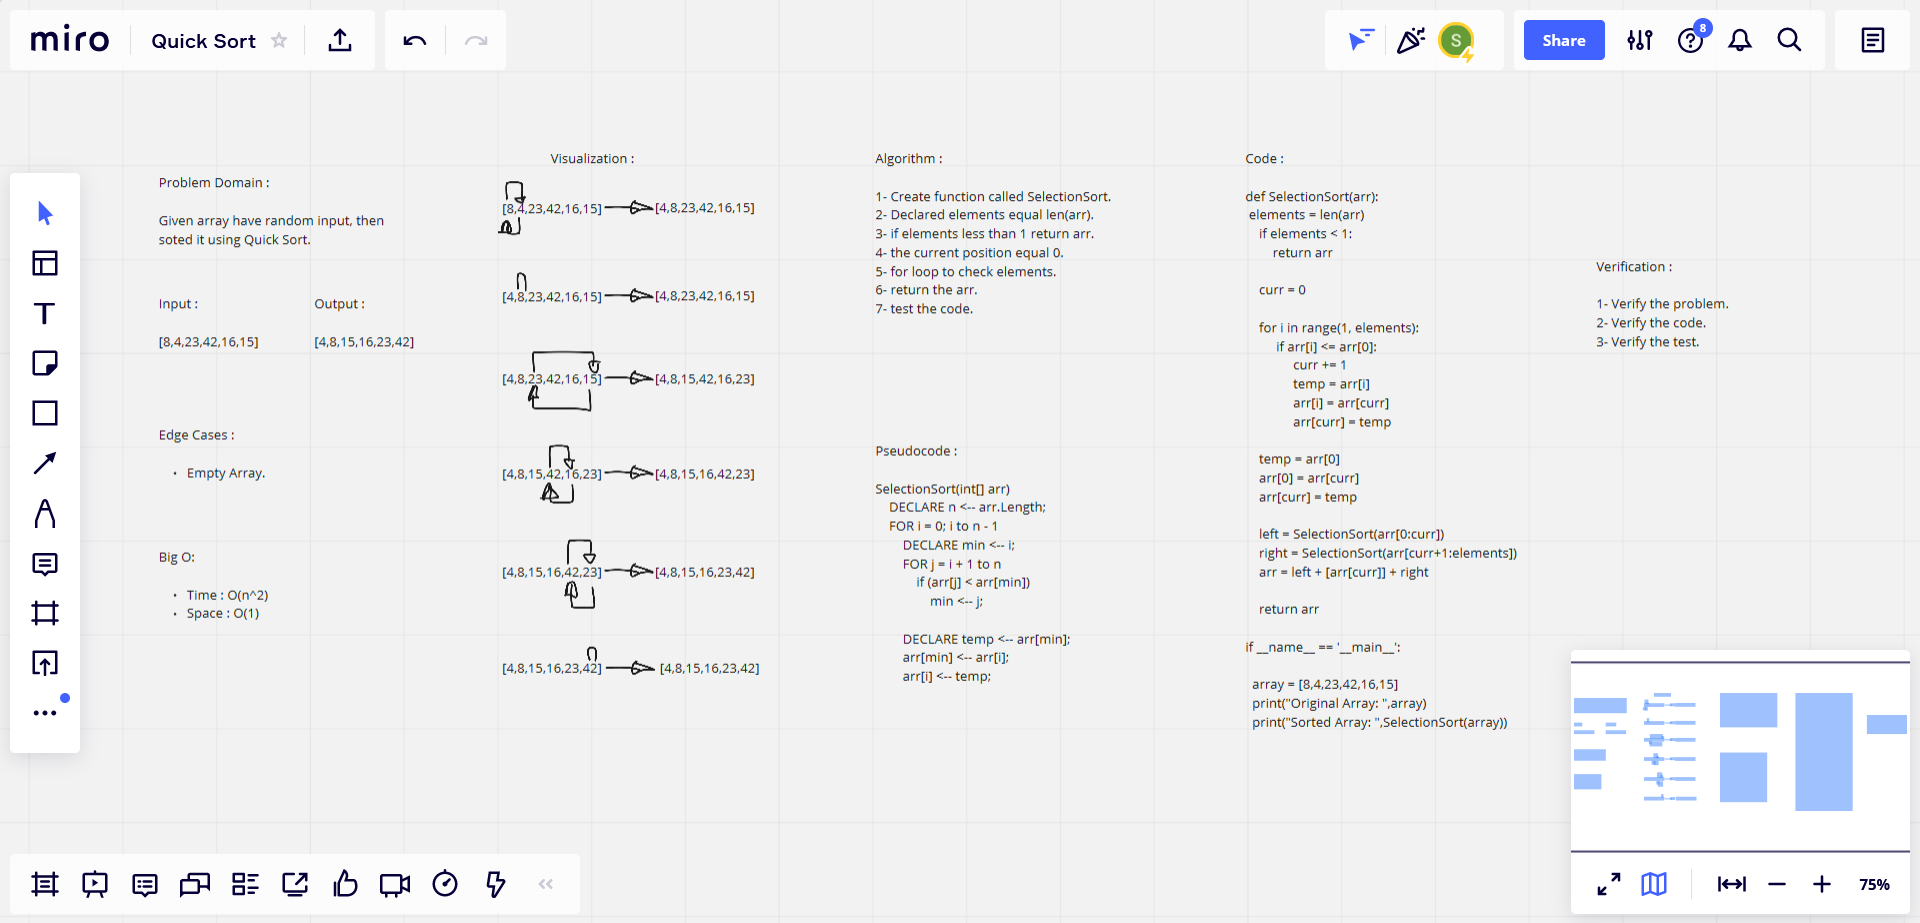
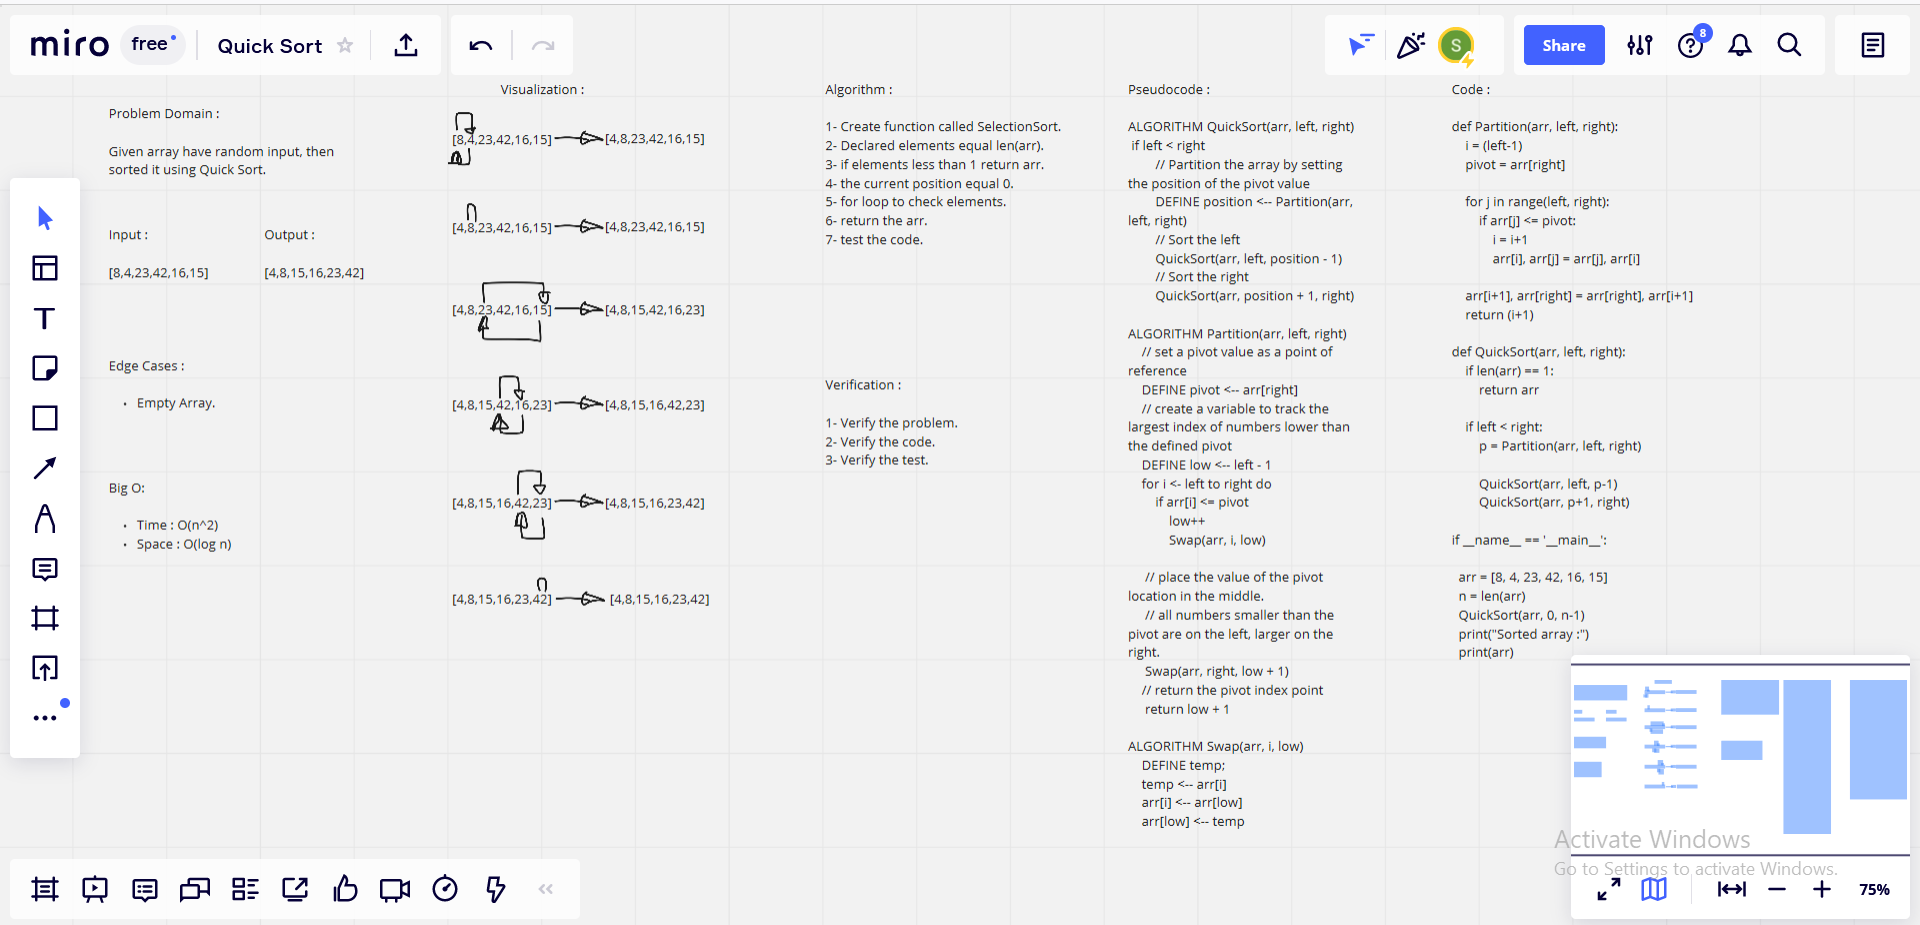
edit code challenge 28

diff --git a/python/quick-sort/quick_sort/quick_sort.py b/python/quick-sort/quick_sort/quick_sort.py
@@ -1,29 +1,29 @@
-def SelectionSort(arr):
-    elements = len(arr)
-    if elements < 1:
+def Partition(arr, left, right):
+    i = (left-1)        
+    pivot = arr[right]     
+  
+    for j in range(left, right):
+        if arr[j] <= pivot:
+            i = i+1
+            arr[i], arr[j] = arr[j], arr[i]
+
+    arr[i+1], arr[right] = arr[right], arr[i+1]
+    return (i+1)
+  
+def QuickSort(arr, left, right):
+    if len(arr) == 1:
         return arr
-    
-    curr = 0 
 
-    for i in range(1, elements):
-         if arr[i] <= arr[0]:
-              curr += 1
-              temp = arr[i]
-              arr[i] = arr[curr]
-              arr[curr] = temp
+    if left < right:
+        p = Partition(arr, left, right)
 
-    temp = arr[0]
-    arr[0] = arr[curr] 
-    arr[curr] = temp 
-    
-    left = SelectionSort(arr[0:curr])  
-    right = SelectionSort(arr[curr+1:elements]) 
-    arr = left + [arr[curr]] + right 
-
-    return arr
+        QuickSort(arr, left, p-1)
+        QuickSort(arr, p+1, right)
 
 if __name__ == '__main__':
 
-  array = [8,4,23,42,16,15]
-  print("Original Array: ",array)
-  print("Sorted Array: ",SelectionSort(array))
+  arr = [8, 4, 23, 42, 16, 15]
+  n = len(arr)
+  QuickSort(arr, 0, n-1)
+  print("Sorted array :")
+  print(arr)

diff --git a/python/quick-sort/tests/test_quick_sort.py b/python/quick-sort/tests/test_quick_sort.py
@@ -7,7 +7,7 @@ def test_version():
     assert __version__ == '0.1.0'
 
 #@pytest
-def test_SelectionSort(arr):
+def test_QuickSort(arr):
     array = [8,4,23,42,16,15]
     actual = array
     excepted = [4, 8, 15, 16, 23, 42]

diff --git a/python/quick-sort/README.md b/python/quick-sort/README.md
@@ -20,39 +20,39 @@
 
 **Time: O(n^2) : Because : The basic operation of this algorithm is comparison. This will happen n * (n-1) number of times…concluding the algorithm to be n squared.**
 
-**Space: O(1) : Because : No additional space is being created. This array is being sorted in place…keeping the space at constant O(1).**
+**Space: O(log n).**
 
 ## Solution
 
-    def SelectionSort(arr):
-        elements = len(arr)
-        if elements < 1:
+    def Partition(arr, left, right):
+        i = (left-1)        
+        pivot = arr[right]     
+    
+        for j in range(left, right):
+            if arr[j] <= pivot:
+                i = i+1
+                arr[i], arr[j] = arr[j], arr[i]
+
+        arr[i+1], arr[right] = arr[right], arr[i+1]
+        return (i+1)
+    
+    def QuickSort(arr, left, right):
+        if len(arr) == 1:
             return arr
-        
-        curr = 0 
 
-        for i in range(1, elements):
-            if arr[i] <= arr[0]:
-                curr += 1
-                temp = arr[i]
-                arr[i] = arr[curr]
-                arr[curr] = temp
+        if left < right:
+            p = Partition(arr, left, right)
 
-        temp = arr[0]
-        arr[0] = arr[curr] 
-        arr[curr] = temp 
-        
-        left = SelectionSort(arr[0:curr])  
-        right = SelectionSort(arr[curr+1:elements]) 
-        arr = left + [arr[curr]] + right 
-
-        return arr
+            QuickSort(arr, left, p-1)
+            QuickSort(arr, p+1, right)
 
     if __name__ == '__main__':
 
-    array = [8,4,23,42,16,15]
-    print("Original Array: ",array)
-    print("Sorted Array: ",SelectionSort(array))
+    arr = [8, 4, 23, 42, 16, 15]
+    n = len(arr)
+    QuickSort(arr, 0, n-1)
+    print("Sorted array :")
+    print(arr)
 
 | Subject     | links |
 | ----------- | ----------- |

diff --git a/python/quick-sort/BLOG.md b/python/quick-sort/BLOG.md
@@ -1,16 +1,36 @@
 # Pseudocode 
 
-    SelectionSort(int[] arr)
-        DECLARE n <-- arr.Length;
-        FOR i = 0; i to n - 1  
-            DECLARE min <-- i;
-            FOR j = i + 1 to n
-                if (arr[j] < arr[min])
-                    min <-- j;
+    ALGORITHM QuickSort(arr, left, right)
+        if left < right
+            // Partition the array by setting the position of the pivot value
+            DEFINE position <-- Partition(arr, left, right)
+            // Sort the left
+            QuickSort(arr, left, position - 1)
+            // Sort the right
+            QuickSort(arr, position + 1, right)
 
-            DECLARE temp <-- arr[min];
-            arr[min] <-- arr[i];
-            arr[i] <-- temp;
+    ALGORITHM Partition(arr, left, right)
+        // set a pivot value as a point of reference
+        DEFINE pivot <-- arr[right]
+        // create a variable to track the largest index of numbers lower than the defined pivot
+        DEFINE low <-- left - 1
+        for i <- left to right do
+            if arr[i] <= pivot
+                low++
+                Swap(arr, i, low)
+
+        // place the value of the pivot location in the middle.
+        // all numbers smaller than the pivot are on the left, larger on the right.
+        Swap(arr, right, low + 1)
+        // return the pivot index point
+        return low + 1
+
+    ALGORITHM Swap(arr, i, low)
+        DEFINE temp;
+        temp <-- arr[i]
+        arr[i] <-- arr[low]
+        arr[low] <-- temp
+
 
 
 # Trace 

diff --git a/README.md b/README.md
@@ -22,5 +22,3 @@
 | insertion-sort | [python/insertion-sort/README.md](python/insertion-sort/README.md) |
 | merge-sort | [python/merge-sort/README.md](python/merge-sort/README.md) |
 | quick-sort | [python/quick-sort/README.md](python/quick-sort/README.md) |
-
-
